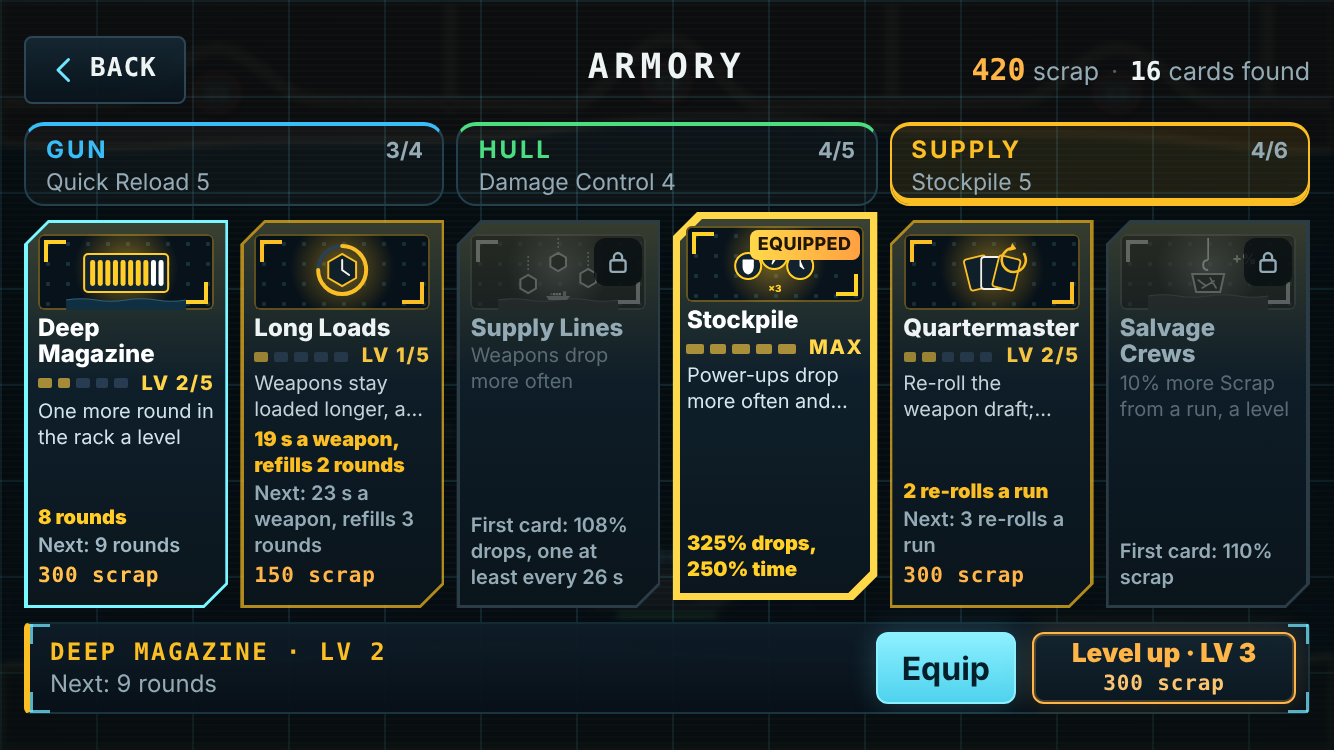
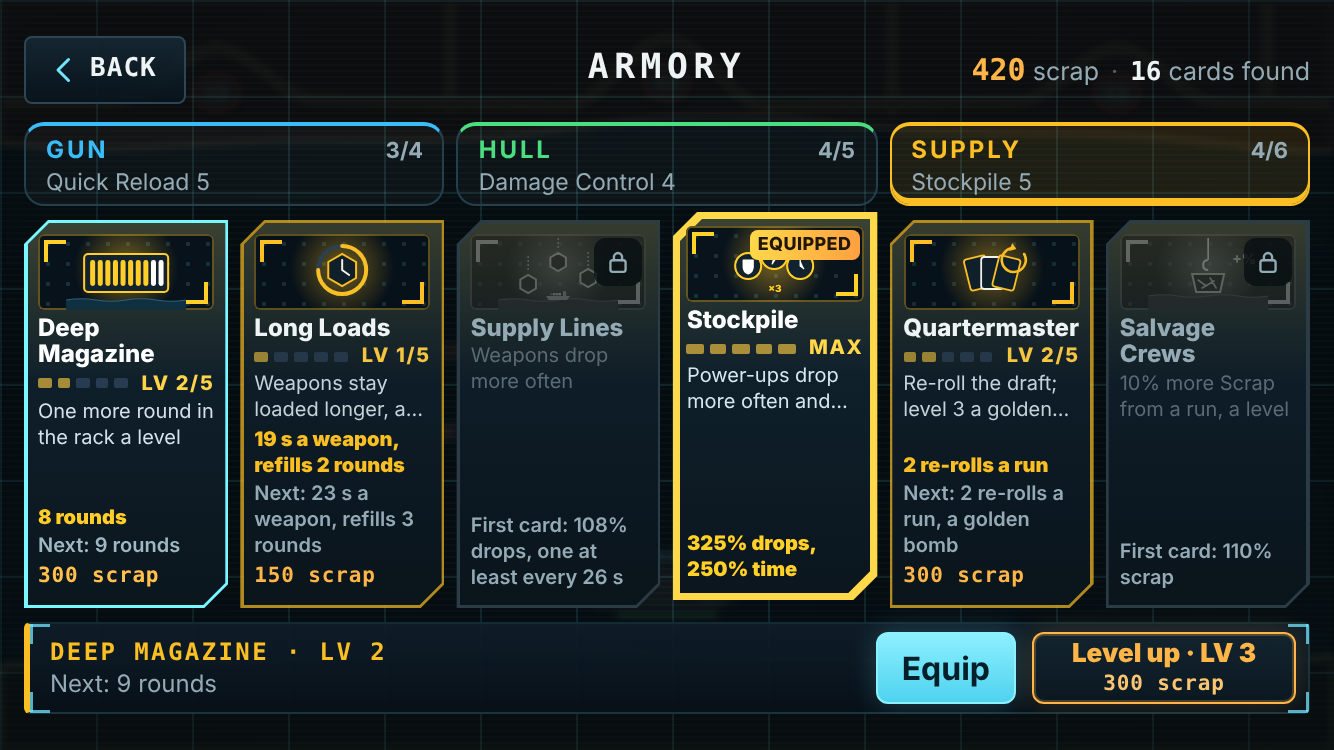
Armory: Lifeboats and Quartermaster reworked (log 44): shots at 874x402, docs
Claude-Session: https://claude.ai/code/session_015SserufEdxL3o4WinW1jct

Changed region(s): [[0.6762, 0.6133, 0.7991, 0.736], [0.6762, 0.4907, 0.7991, 0.552]]

diff --git a/docs/design/v3-armory-overhaul.md b/docs/design/v3-armory-overhaul.md
@@ -127,7 +127,7 @@ The player's answers on the hub. Lifeboats: "alternate the repair and extra life
 
 Measured at level 5 against none (60 runs each, the "you" bot drafting for itself): **Lifeboats** saves 2.0 ships alone and none on the player's Armory (Damage Control 4 already mends), but wins runs: 50% → 67% on the player's build under the real rules (3% → 15% alone). **Quartermaster** saves 4.7 ships alone (was 2.5) and 2.1 on the player's build (was 0.9), and wins 50% → 67% there.
 
-- **What "repair the ships" means.** A ship has 3 hull points and the carrier 12; ships sail through and new ones come, so the ones mended are the ships afloat as a wave is cleared. 66% of the missing points, rounded to whole points: a ship one point down is mended, two down gets one back; the carrier at 6 of 12 gets 4. From level 4 every hull is full. A "+1", "+4 HULL" floats over each mended hull, with the repair sound. The mend comes as a regular wave is cleared (not after a bonus wave, nor after the last).
+- **What "repair the ships" means.** A ship has 3 hull points and the carrier 12; ships sail through and new ones come, so the ones mended are the ships afloat as a wave is cleared. 66% of the missing points, rounded to whole points: a ship one point down is mended, two down gets one back; the carrier at 6 of 12 gets 4. From level 4 every hull is full. A "+1", "+4 HULL" floats over each mended hull, with the repair sound. The mend comes as each regular wave (and boss round) is cleared, not after a bonus wave.
 - **The Lifeboat card.** Dealt in the draft after waves 3, 6, 9 and 12 (and every 3rd endless wave), one a draft, added to the hand (four cards, five with Quartermaster 5: the hand's weapons are the ones it would have dealt; no dice are drawn for it, so a run without it plays as before and a re-roll deals it again). Taking it is +1 life in place of a weapon or level: one more ship can be lost (`lossLimit` = the tempo's limit + `extraLives`). The convoy restored before the boss rounds keeps the lives. It is orange, badged "+1 LIFE", and says the lives left now and after ("6 → 7 lives"). Each life is one more pip on the HUD's SUNK row, outlined in lifeboat orange (a second row past seven). The bots take it when 3 or fewer of their lives are left, or when no weapon in the hand can be taken.
 - **Lifeboats level 5 (the player didn't say).** In the spirit of "alternate repair and life" (1 repair, 2 repair, 3 life, 4 repair, 5 life), level 5 starts the run with one extra life (a seventh pip from wave 1). The other option, the life card every other wave, was set aside: a life you can count on from the start reads more clearly on the card, and the draft's choice stays a choice. **A decision for the player.**
 - **The golden bomb.** From Quartermaster 3, a round gold button marked BOMB sits in the left rail under the ships slider from the run's start, glowing, until it is tapped; then it is gone for the run. It sets off the Nuke (every enemy and munition on the map; structures and the Dreadnought take its 3 hits), in any wave, boss rounds and special events included, with the Nuke's blast sound, a shake and "GOLDEN BOMB" over the carrier. It is greyed during a replay or while the bot has the controls. A new log command, `'n'`. Placement at 874×402: the left rail is the left thumb's and has room under the slider; the right rail is full (HUD, pause, speed, three weapon buttons). The bots keep it for when it counts: in a boss round with 3 threats about to hit, before that with 6 once the run is pressed (half its lives or fewer, or the carrier at half) or from wave 8, and any time the last ship has two about to land (they set it off in every run, on average in wave 9).
